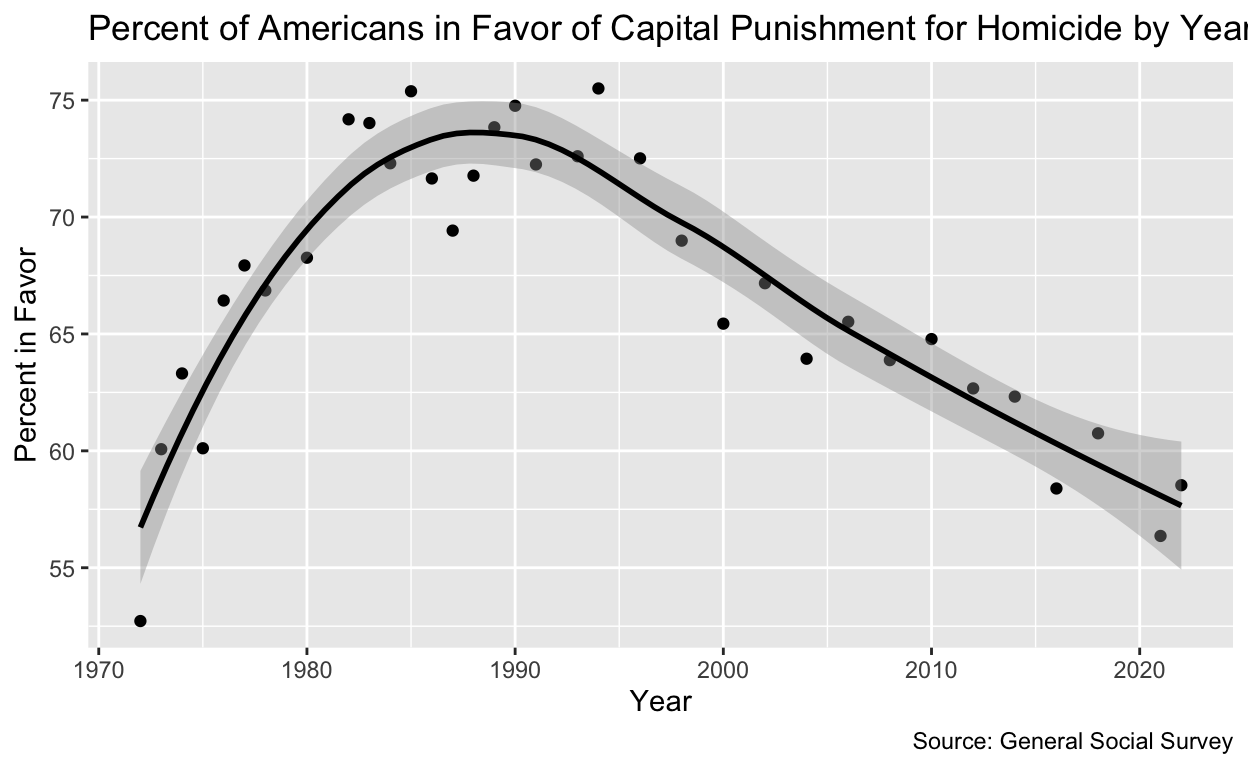
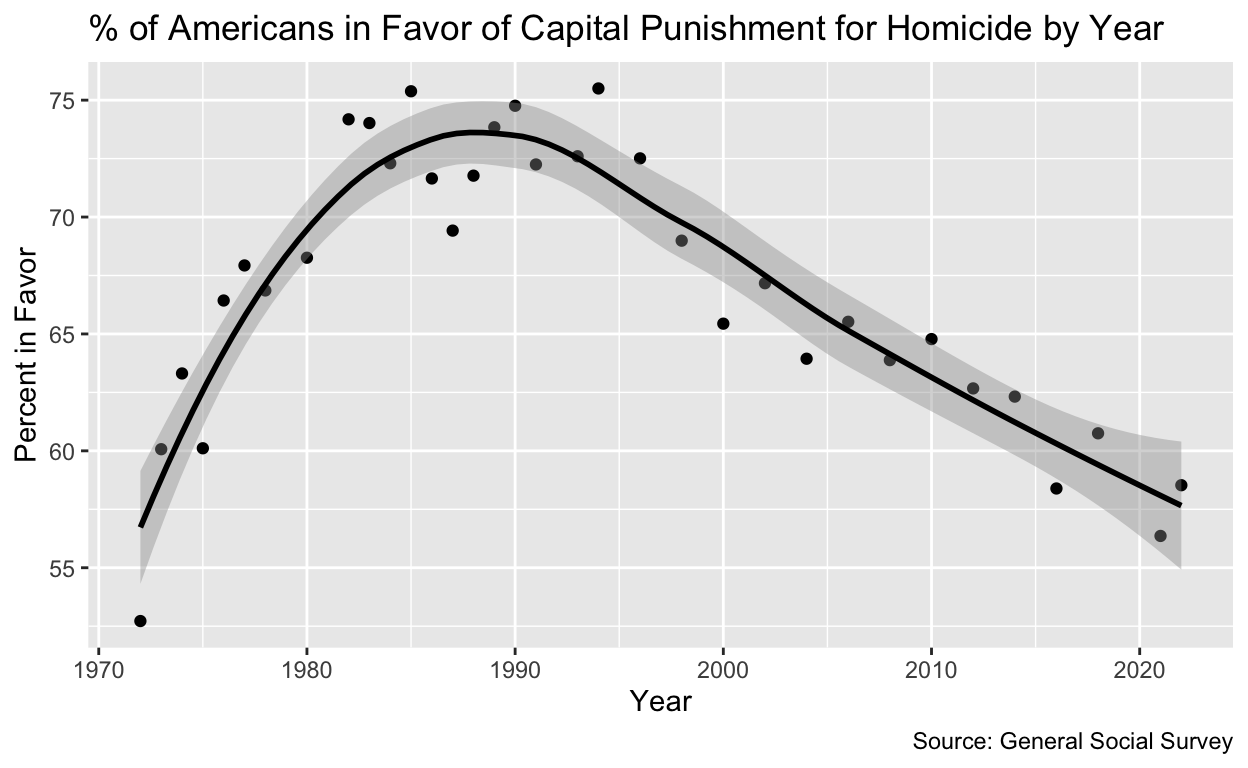
%

Changed region(s): [[0.0625, 0.0, 1.0, 0.0625]]

diff --git a/index.html b/index.html
@@ -1539,7 +1539,7 @@ code span.wa { color: #5e5e5e; font-style: italic; } /* Warning */
 <span>  <span class='fu'><a href='https://ggplot2.tidyverse.org/reference/labs.html'>labs</a></span><span class='op'>(</span>x <span class='op'>=</span> <span class='st'>"Year"</span>, y <span class='op'>=</span> <span class='st'>"Number of Executions"</span>, title <span class='op'>=</span> <span class='st'>"Number of Executions in the United States per Year"</span>, caption <span class='op'>=</span> <span class='st'>"Sources: US Department of Justice &amp; Amnesty International"</span><span class='op'>)</span></span>
 <span></span>
 <span><span class='va'>cappun_plot_2</span> <span class='op'>&lt;-</span> <span class='fu'><a href='https://ggplot2.tidyverse.org/reference/ggplot.html'>ggplot</a></span><span class='op'>(</span>data <span class='op'>=</span> <span class='va'>cappun</span>, mapping <span class='op'>=</span> <span class='fu'><a href='https://ggplot2.tidyverse.org/reference/aes.html'>aes</a></span><span class='op'>(</span>x <span class='op'>=</span> <span class='va'>Year</span>, y <span class='op'>=</span> <span class='va'>Percent_Support</span><span class='op'>)</span><span class='op'>)</span> <span class='op'>+</span> <span class='fu'><a href='https://ggplot2.tidyverse.org/reference/geom_path.html'>geom_line</a></span><span class='op'>(</span><span class='op'>)</span> <span class='op'>+</span></span>
-<span>  <span class='fu'><a href='https://ggplot2.tidyverse.org/reference/labs.html'>labs</a></span><span class='op'>(</span>x <span class='op'>=</span> <span class='st'>"Year"</span>, y <span class='op'>=</span> <span class='st'>"Percent in Favor"</span>, title <span class='op'>=</span> <span class='st'>"Percent of Americans in Favor of Capital Punishment for Homicide by Year"</span>, caption <span class='op'>=</span> <span class='st'>"Source: General Social Survey"</span><span class='op'>)</span></span>
+<span>  <span class='fu'><a href='https://ggplot2.tidyverse.org/reference/labs.html'>labs</a></span><span class='op'>(</span>x <span class='op'>=</span> <span class='st'>"Year"</span>, y <span class='op'>=</span> <span class='st'>"Percent in Favor"</span>, title <span class='op'>=</span> <span class='st'>"% of Americans in Favor of Capital Punishment for Homicide by Year"</span>, caption <span class='op'>=</span> <span class='st'>"Source: General Social Survey"</span><span class='op'>)</span></span>
 <span></span>
 <span><span class='va'>cappun_plot_3</span> <span class='op'>&lt;-</span> <span class='fu'><a href='https://ggplot2.tidyverse.org/reference/ggplot.html'>ggplot</a></span><span class='op'>(</span>data <span class='op'>=</span> <span class='va'>cappun</span>,</span>
 <span>mapping <span class='op'>=</span> <span class='fu'><a href='https://ggplot2.tidyverse.org/reference/aes.html'>aes</a></span><span class='op'>(</span>x <span class='op'>=</span> <span class='va'>Year</span>, y <span class='op'>=</span> <span class='va'>Number_Executions</span><span class='op'>)</span><span class='op'>)</span> <span class='op'>+</span></span>
@@ -1551,7 +1551,7 @@ code span.wa { color: #5e5e5e; font-style: italic; } /* Warning */
 <span>mapping <span class='op'>=</span> <span class='fu'><a href='https://ggplot2.tidyverse.org/reference/aes.html'>aes</a></span><span class='op'>(</span>x <span class='op'>=</span> <span class='va'>Year</span>, y <span class='op'>=</span> <span class='va'>Percent_Support</span><span class='op'>)</span><span class='op'>)</span> <span class='op'>+</span></span>
 <span><span class='fu'><a href='https://ggplot2.tidyverse.org/reference/geom_point.html'>geom_point</a></span><span class='op'>(</span><span class='op'>)</span> <span class='op'>+</span></span>
 <span><span class='fu'><a href='https://ggplot2.tidyverse.org/reference/geom_smooth.html'>geom_smooth</a></span><span class='op'>(</span>color <span class='op'>=</span> <span class='st'>"black"</span><span class='op'>)</span> <span class='op'>+</span></span>
-<span>    <span class='fu'><a href='https://ggplot2.tidyverse.org/reference/labs.html'>labs</a></span><span class='op'>(</span>x <span class='op'>=</span> <span class='st'>"Year"</span>, y <span class='op'>=</span> <span class='st'>"Percent in Favor"</span>, title <span class='op'>=</span> <span class='st'>"Percent of Americans in Favor of Capital Punishment for Homicide by Year"</span>, caption <span class='op'>=</span> <span class='st'>"Source: General Social Survey"</span><span class='op'>)</span></span>
+<span>    <span class='fu'><a href='https://ggplot2.tidyverse.org/reference/labs.html'>labs</a></span><span class='op'>(</span>x <span class='op'>=</span> <span class='st'>"Year"</span>, y <span class='op'>=</span> <span class='st'>"Percent in Favor"</span>, title <span class='op'>=</span> <span class='st'>"% of Americans in Favor of Capital Punishment for Homicide by Year"</span>, caption <span class='op'>=</span> <span class='st'>"Source: General Social Survey"</span><span class='op'>)</span></span>
 <span>  </span>
 <span></span>
 <span><span class='va'>cappun_plot_1</span></span></code></pre>
